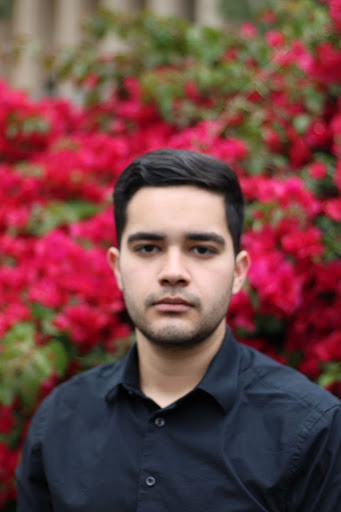
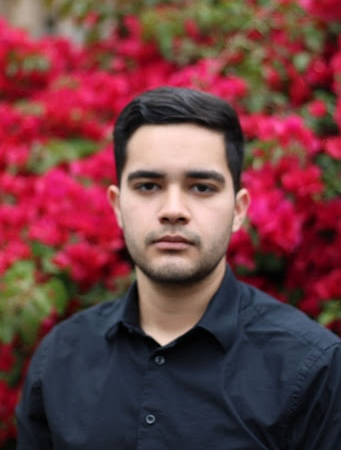
fixed the distance and the board image aspect

diff --git a/src/components/PR.jsx b/src/components/PR.jsx
@@ -15,7 +15,7 @@ const PR = () => {
           <h1 className='text-2xl font-bold tracking-widest text-black italic'>Vice President of Public Relations</h1>
         </div>
 
-        <div className='pt-4 flex flex-col lg:flex-row'>
+        <div className='lg:pt-6 pt-2 flex flex-col lg:flex-row'>
           <div className='w-full lg:w-1/3 flex justify-start items-center flex-col'>
             <div className="w-full h-full bg-gray-300 relative overflow-hidden rounded shadow-2xl" style={{ boxShadow: '0px 4px 10px rgba(0, 0, 0, 0.6)' }}>
               <img

diff --git a/src/components/Mark1.jsx b/src/components/Mark1.jsx
@@ -15,7 +15,7 @@ const Mark1 = () => {
           <h1 className='text-2xl font-bold tracking-widest text-black italic'>Vice President of Marketing</h1>
         </div>
 
-        <div className='pt-4 flex flex-col lg:flex-row'>
+        <div className='lg:pt-6 pt-2 flex flex-col lg:flex-row'>
           <div className='w-full lg:w-1/3 flex justify-start items-center flex-col'>
             <div className="w-full h-full bg-gray-300 relative overflow-hidden rounded shadow-2xl" style={{ boxShadow: '0px 4px 10px rgba(0, 0, 0, 0.6)' }}>
               <img

diff --git a/src/components/Tech.jsx b/src/components/Tech.jsx
@@ -15,7 +15,7 @@ const Tech = () => {
           <h1 className='text-2xl font-bold tracking-widest text-black italic'>Vice President of Technology</h1>
         </div>
 
-        <div className='pt-4 flex flex-col lg:flex-row'>
+        <div className='lg:pt-6 pt-2 flex flex-col lg:flex-row'>
           <div className='w-full lg:w-1/3 flex justify-start items-center flex-col'>
             <div className="w-full h-full bg-gray-300 relative overflow-hidden rounded shadow-2xl" style={{ boxShadow: '0px 4px 10px rgba(0, 0, 0, 0.6)' }}>
               <img

diff --git a/src/components/Pres.jsx b/src/components/Pres.jsx
@@ -15,7 +15,7 @@ const Pres = () => {
           <h1 className='text-2xl font-bold tracking-widest text-black italic'>President & Founder</h1>
         </div>
 
-        <div className='pt-4 flex flex-col lg:flex-row'>
+        <div className='lg:pt-6 pt-2  flex flex-col lg:flex-row'>
           <div className='w-full lg:w-1/3 flex justify-start items-center flex-col'>
             <div className="w-full h-full bg-gray-300 relative overflow-hidden rounded shadow-2xl" style={{ boxShadow: '0px 4px 10px rgba(0, 0, 0, 0.6)' }}>
               <img

diff --git a/src/components/Evp.jsx b/src/components/Evp.jsx
@@ -128,7 +128,7 @@ const Evp = () => {
                 </div>
 
               </div>
-              <div className='w-1/3 flex justify-end flex-col'>
+              <div className='w-1/3 flex justify-end flex-col '>
                 <div className="w-full h-full bg-gray-300 relative overflow-hidden rounded shadow-2xl" style={{ boxShadow: '0px 4px 10px rgba(0, 0, 0, 0.6)' }}>
                   <img
                     src={Sahil}
